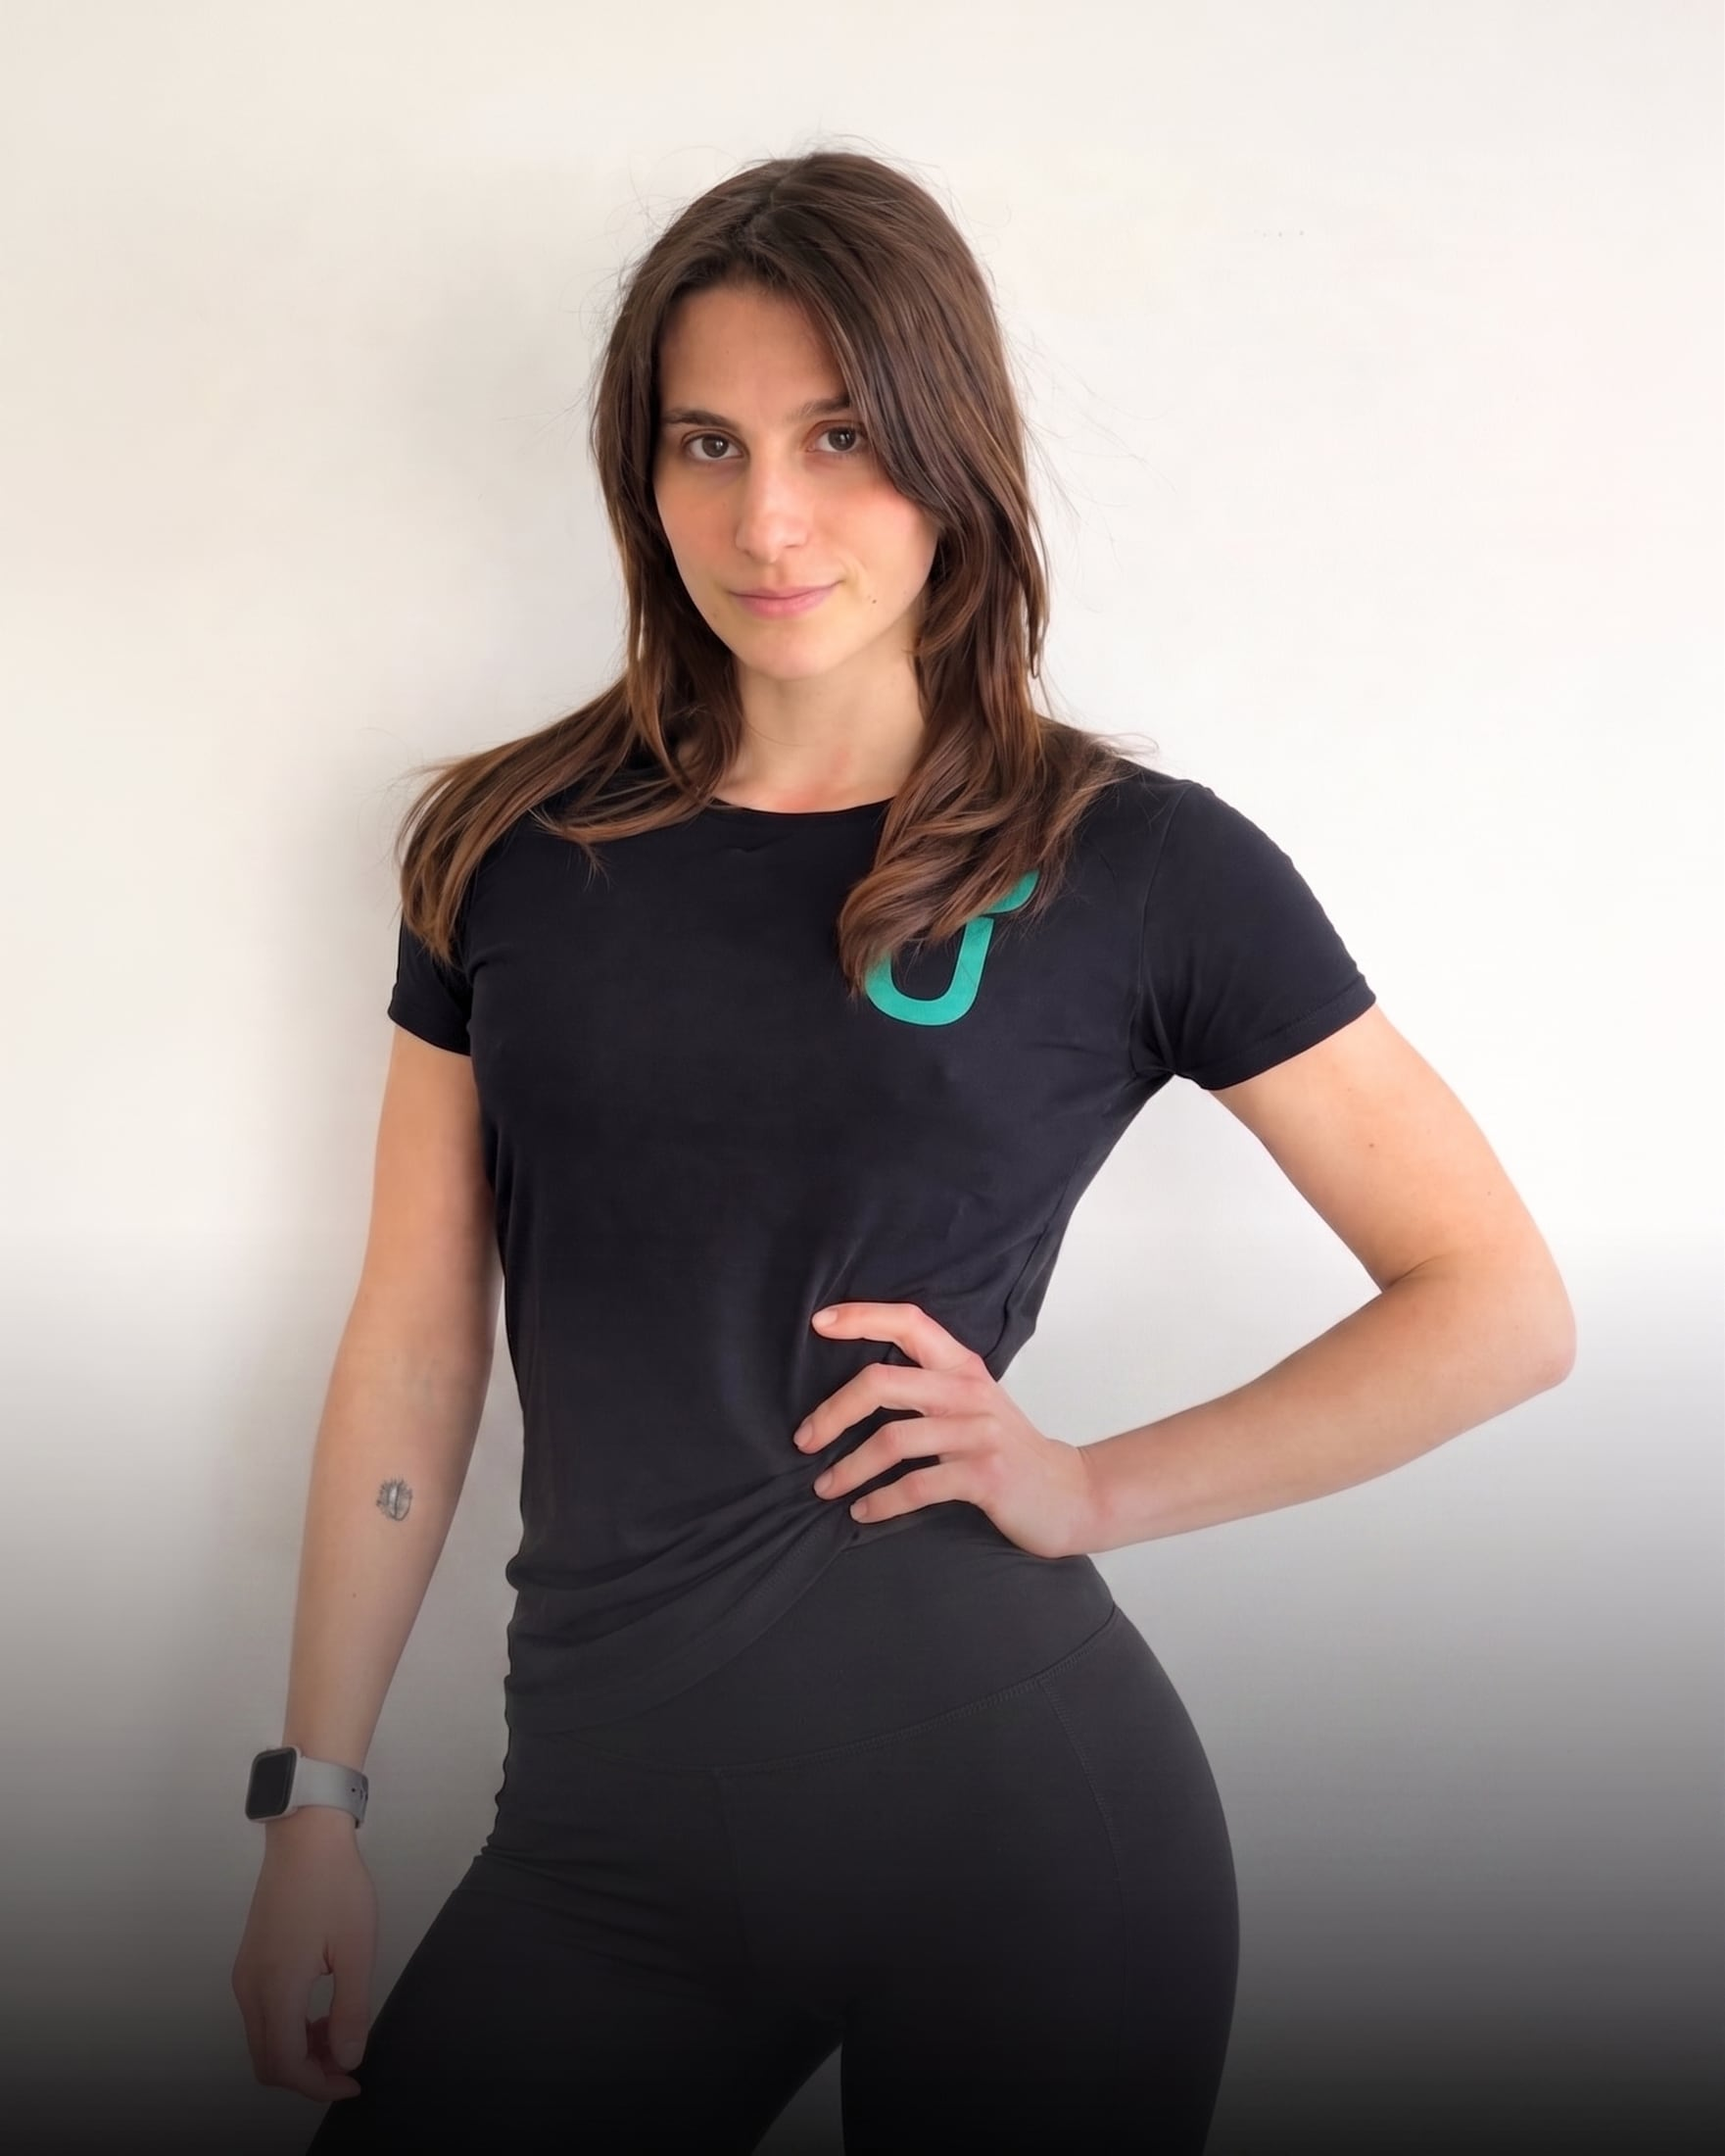
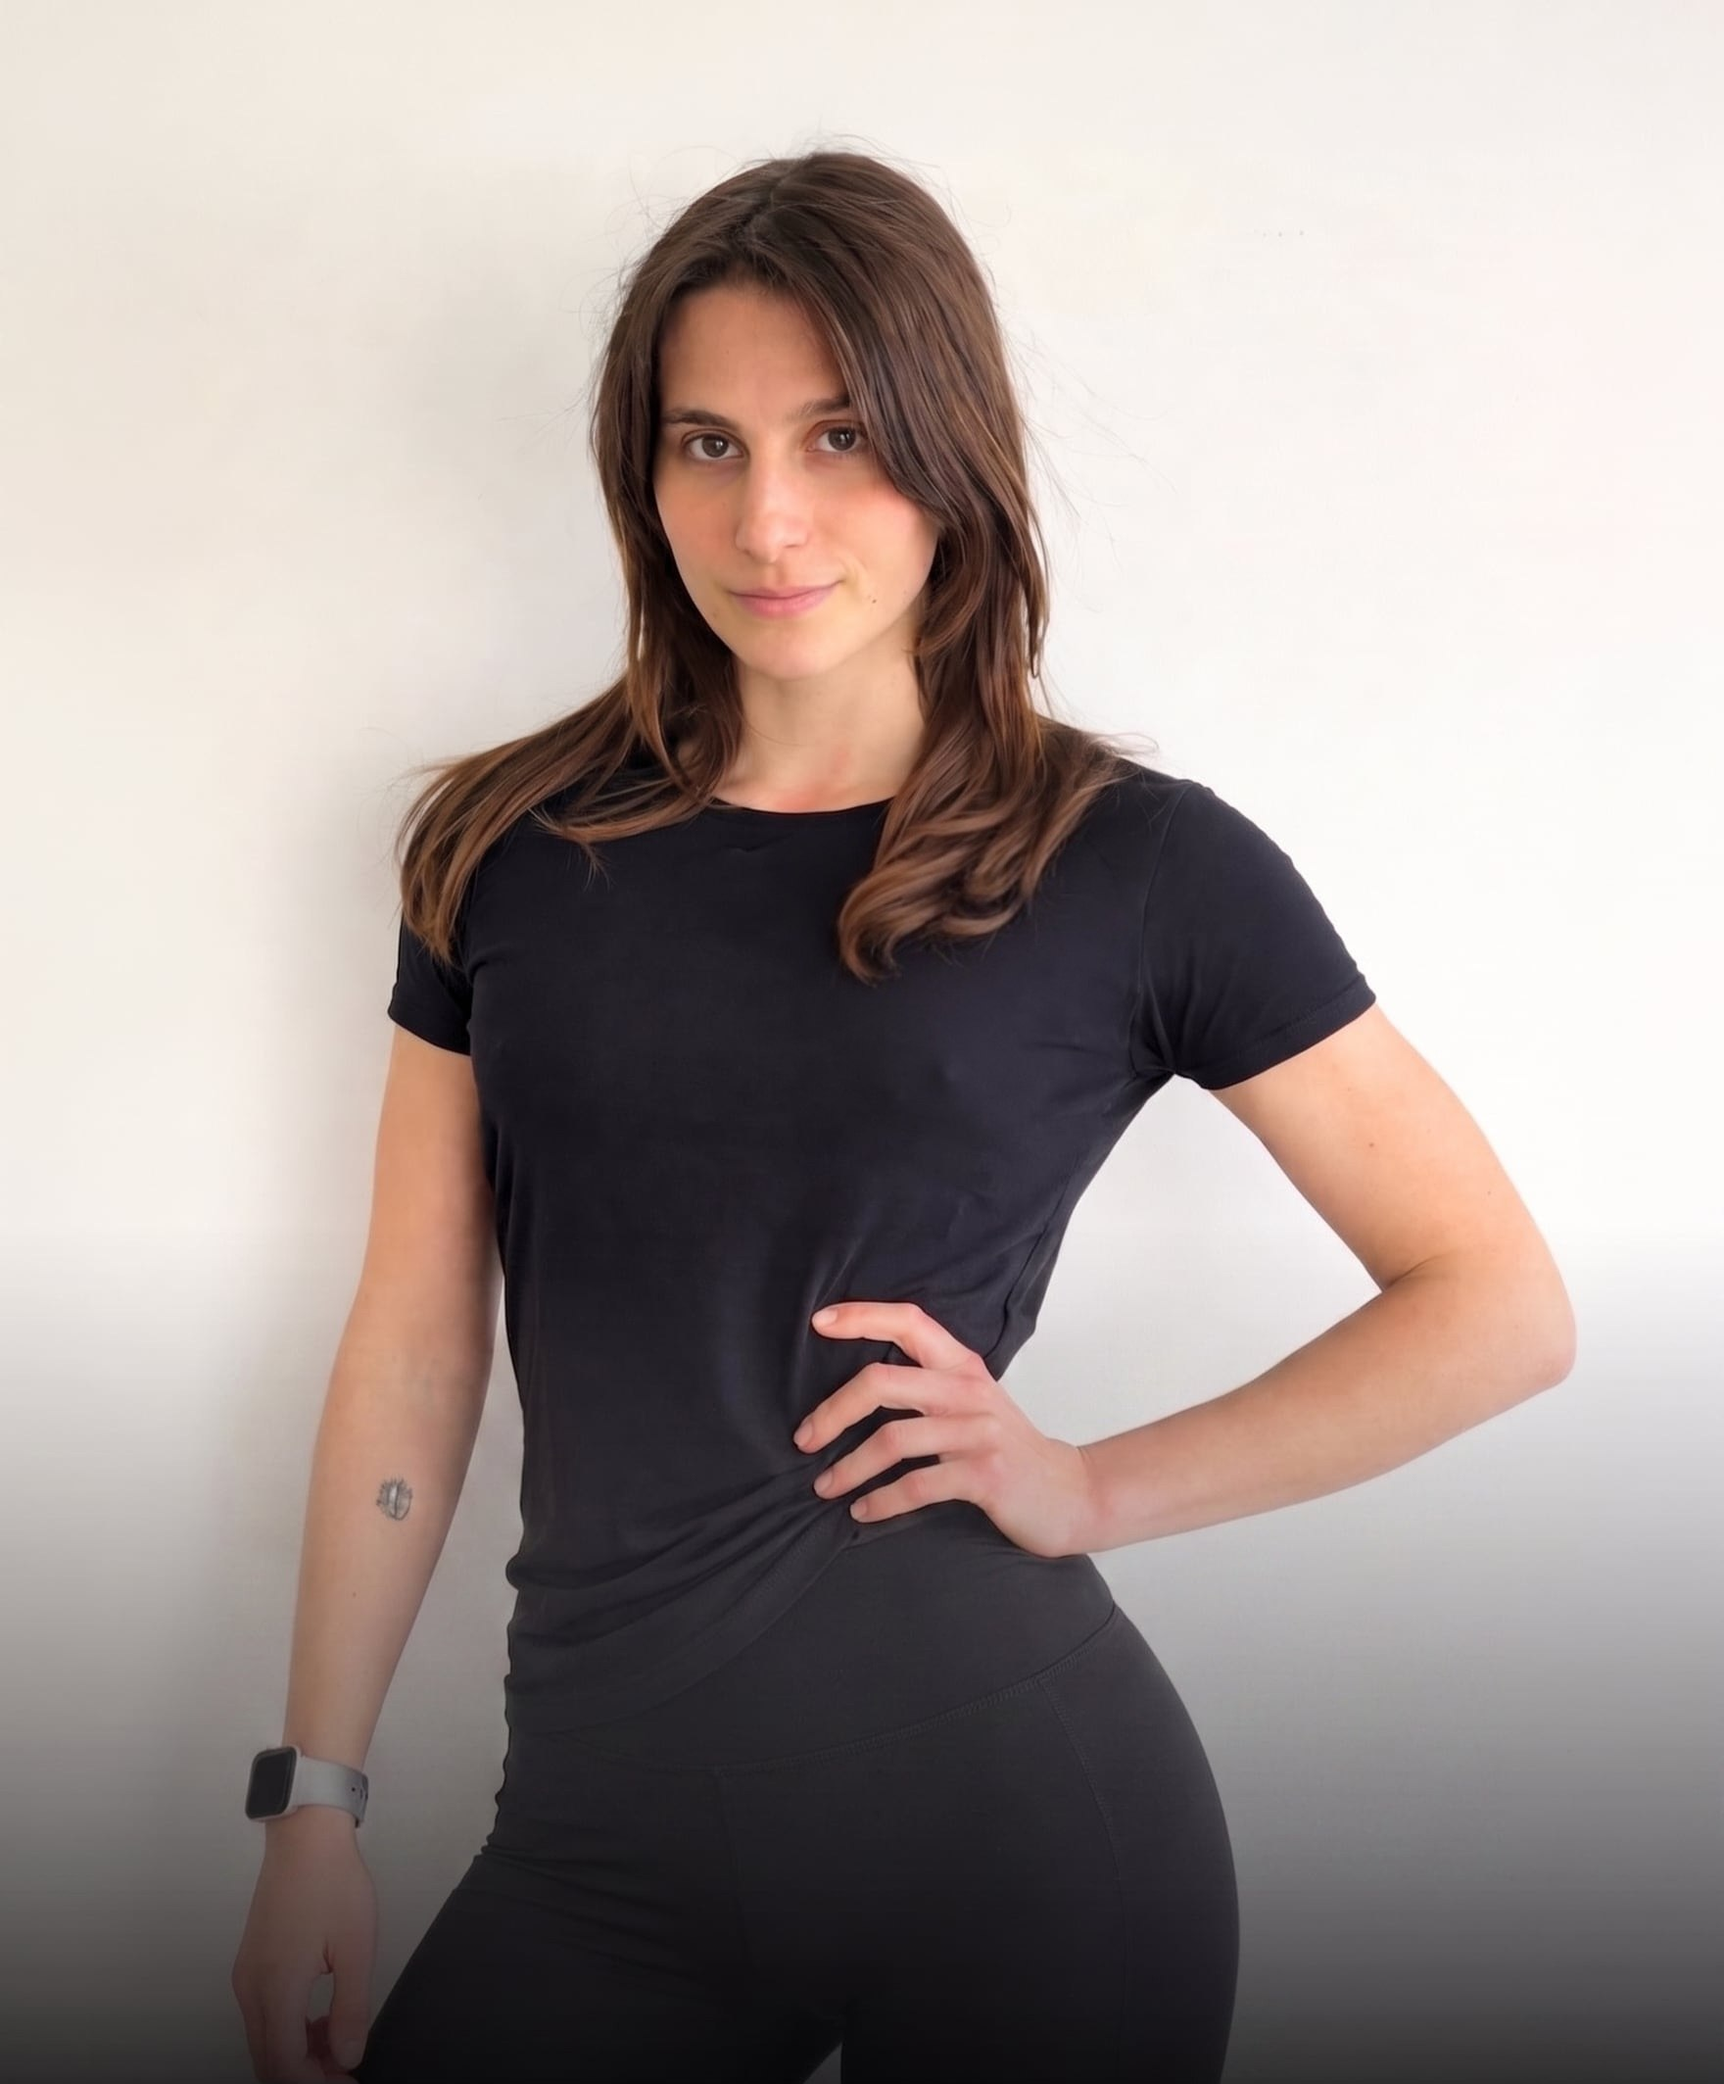
Risultati su quattro colonne, con il percorso personale di Francesca
- La griglia passa da tre a quattro card per riga su desktop
- Aggiunto il prima/dopo di Francesca, in apertura, con le sue parole
  rese come citazione in carattere editoriale
- L'immagine porta gia le diciture PRIMA e DOPO: il nuovo campo
  labelsInImage evita che il sito ne sovrapponga altre
- Le card non sono piu stirate all'altezza della riga: solo quella con
  la citazione e piu alta, le altre si chiudono sotto la foto

diff --git a/components/sections/Results.tsx b/components/sections/Results.tsx
@@ -7,6 +7,7 @@ import { Section } from "@/components/ui/Section";
 import { SectionHeading } from "@/components/ui/SectionHeading";
 import { RESULTS, SHOW_RESULTS, type ResultCase } from "@/data/results";
 import { CTA } from "@/data/site";
+import { cn } from "@/lib/utils";
 
 export function Results() {
   if (!SHOW_RESULTS || RESULTS.length === 0) return null;
@@ -48,11 +49,13 @@ export function Results() {
         </div>
 
         <RevealGroup
-          className="mt-16 grid gap-6 sm:mt-20 sm:grid-cols-2 lg:grid-cols-3 lg:gap-7"
+          /* items-start: solo la card con la citazione e piu alta, le altre
+     si fermano sotto la foto invece di restare con un vuoto in fondo. */
+          className="mt-16 grid items-start gap-6 sm:mt-20 sm:grid-cols-2 lg:grid-cols-4 lg:gap-5"
           stagger={0.12}
         >
           {RESULTS.map((item) => (
-            <RevealItem key={item.id} as="figure" className="h-full">
+            <RevealItem key={item.id} as="figure">
               <ResultCard result={item} />
             </RevealItem>
           ))}
@@ -67,7 +70,7 @@ function ResultCard({ result }: { result: ResultCase }) {
   const isComposite = Boolean(result.compositeImage);
 
   return (
-    <div className="group relative flex h-full flex-col overflow-hidden rounded-lg border border-hairline bg-surface-900/60 transition-[border-color,transform] duration-700 ease-[cubic-bezier(0.22,1,0.36,1)] hover:-translate-y-1.5 hover:border-violet-400/30">
+    <div className="group relative flex flex-col overflow-hidden rounded-lg border border-hairline bg-surface-900/60 transition-[border-color,transform] duration-700 ease-[cubic-bezier(0.22,1,0.36,1)] hover:-translate-y-1.5 hover:border-violet-400/30">
       <div className="relative aspect-[4/5] w-full bg-[linear-gradient(160deg,var(--color-surface-800),var(--color-ink-950))]">
         {isComposite ? (
           <>
@@ -79,7 +82,7 @@ function ResultCard({ result }: { result: ResultCase }) {
               <BrandImage
                 src={result.compositeImage as string}
                 alt=""
-                sizes="(max-width: 640px) 100vw, (max-width: 1024px) 50vw, 33vw"
+                sizes="(max-width: 640px) 100vw, (max-width: 1024px) 50vw, 25vw"
                 className="h-full w-full scale-125 bg-transparent opacity-30 blur-2xl"
               />
             </div>
@@ -87,7 +90,7 @@ function ResultCard({ result }: { result: ResultCase }) {
               src={result.compositeImage as string}
               alt={result.alt}
               placeholderLabel="Confronto prima e dopo"
-              sizes="(max-width: 640px) 100vw, (max-width: 1024px) 50vw, 33vw"
+              sizes="(max-width: 640px) 100vw, (max-width: 1024px) 50vw, 25vw"
               contain
               className="absolute inset-0 h-full w-full bg-transparent"
             />
@@ -111,10 +114,13 @@ function ResultCard({ result }: { result: ResultCase }) {
           </div>
         )}
 
-        {/* Etichette prima / dopo */}
+        {/* Etichette prima / dopo: saltate se l'immagine le contiene gia */}
         <div
           aria-hidden="true"
-          className="pointer-events-none absolute inset-x-0 bottom-0 flex items-end justify-between p-4"
+          className={cn(
+            "pointer-events-none absolute inset-x-0 bottom-0 flex items-end justify-between p-4",
+            result.labelsInImage && "hidden",
+          )}
         >
           <span className="rounded-full border border-hairline-strong bg-ink-950/70 px-3 py-1 text-[0.58rem] font-semibold uppercase tracking-[0.2em] text-ash backdrop-blur-sm">
             Prima
@@ -131,9 +137,9 @@ function ResultCard({ result }: { result: ResultCase }) {
       </div>
 
       {/* I testi compaiono solo se presenti nei dati */}
-      {(result.title || result.description || result.duration ||
+      {(result.title || result.description || result.quote || result.duration ||
         (result.metrics && result.metrics.length > 0)) && (
-        <figcaption className="flex flex-1 flex-col p-6">
+        <figcaption className="flex flex-col p-6">
           {(result.title || result.duration) && (
             <div className="flex items-baseline justify-between gap-4">
               {result.title && (
@@ -147,6 +153,14 @@ function ResultCard({ result }: { result: ResultCase }) {
                 </span>
               )}
             </div>
+          )}
+
+          {result.quote && (
+            <blockquote>
+              <p className="font-display text-lg font-light italic leading-snug text-cream">
+                «{result.quote}»
+              </p>
+            </blockquote>
           )}
 
           {result.description && (

diff --git a/data/results.ts b/data/results.ts
@@ -28,14 +28,29 @@ export type ResultCase = {
   alt: string;
   title?: string;
   description?: string;
+  /** Parole in prima persona: rese come citazione, non come descrizione. */
+  quote?: string;
   duration?: string;
   metrics?: ResultMetric[];
+  /**
+   * L'immagine contiene già le diciture prima/dopo: il sito evita di
+   * sovrapporre le proprie etichette.
+   */
+  labelsInImage?: boolean;
 };
 
 /** Imposta a `false` per nascondere completamente la sezione. */
 export const SHOW_RESULTS = true;
 
 export const RESULTS: ResultCase[] = [
+  {
+    id: "francesca",
+    compositeImage: IMAGES.fotomia,
+    alt: "Confronto prima e dopo del percorso personale di Francesca Collarile",
+    quote:
+      "Il mio prima e dopo è stato un percorso duro: ho imparato cosa significa doversi ri-costruire, tornare sana e proseguire il percorso verso una me migliore.",
+    labelsInImage: true,
+  },
   {
     id: "percorso-01",
     compositeImage: IMAGES.risultato01,

diff --git a/data/images.ts b/data/images.ts
@@ -38,7 +38,8 @@ export const IMAGES = {
   /** One To One — GPC Power Academy. */
   academy: "/immagini/academy.jpg",
 
-  /** Risultati reali (già presenti). Ogni file contiene prima+dopo affiancati. */
+  /** Risultati reali. Ogni file contiene prima+dopo affiancati. */
+  fotomia: "/immagini/fotomia.jpg",
   risultato01: "/immagini/risultato-01.jpg",
   risultato02: "/immagini/risultato-02.jpg",
   risultato03: "/immagini/risultato-03.jpg",
